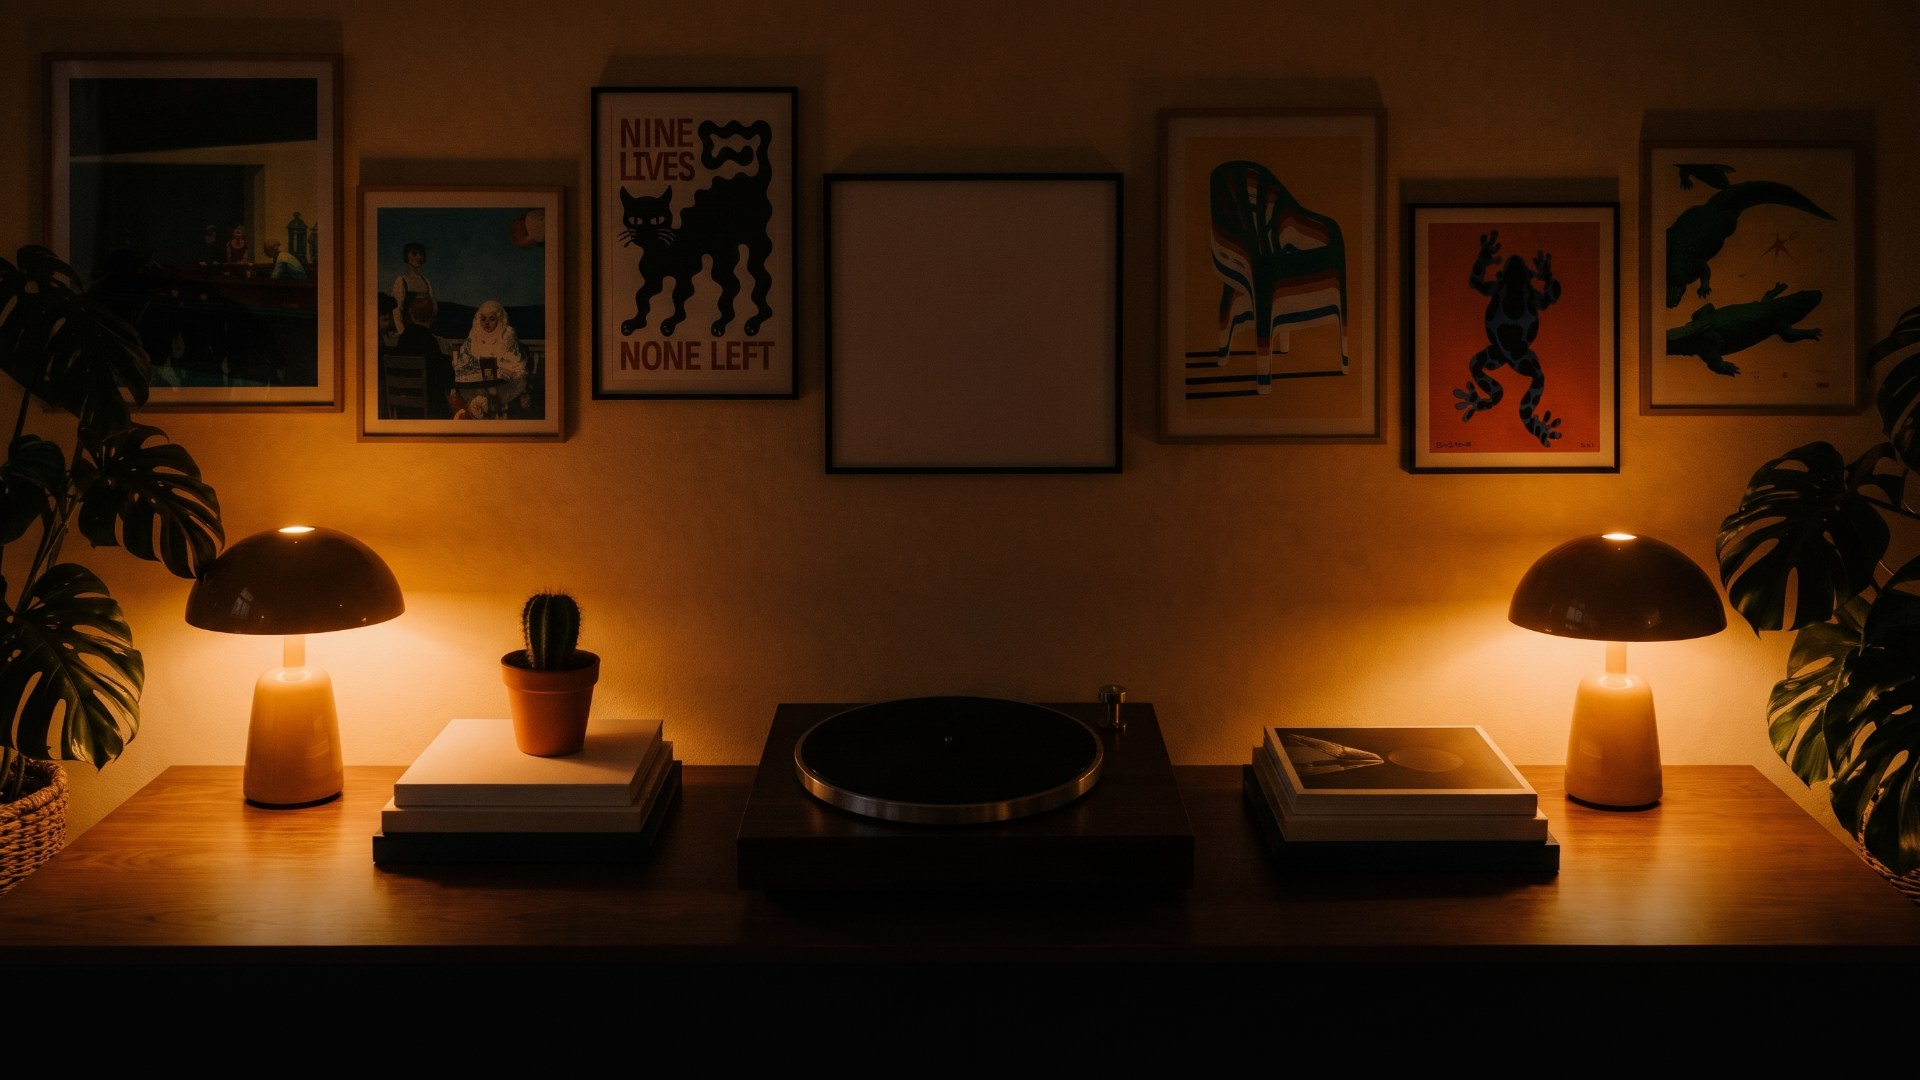
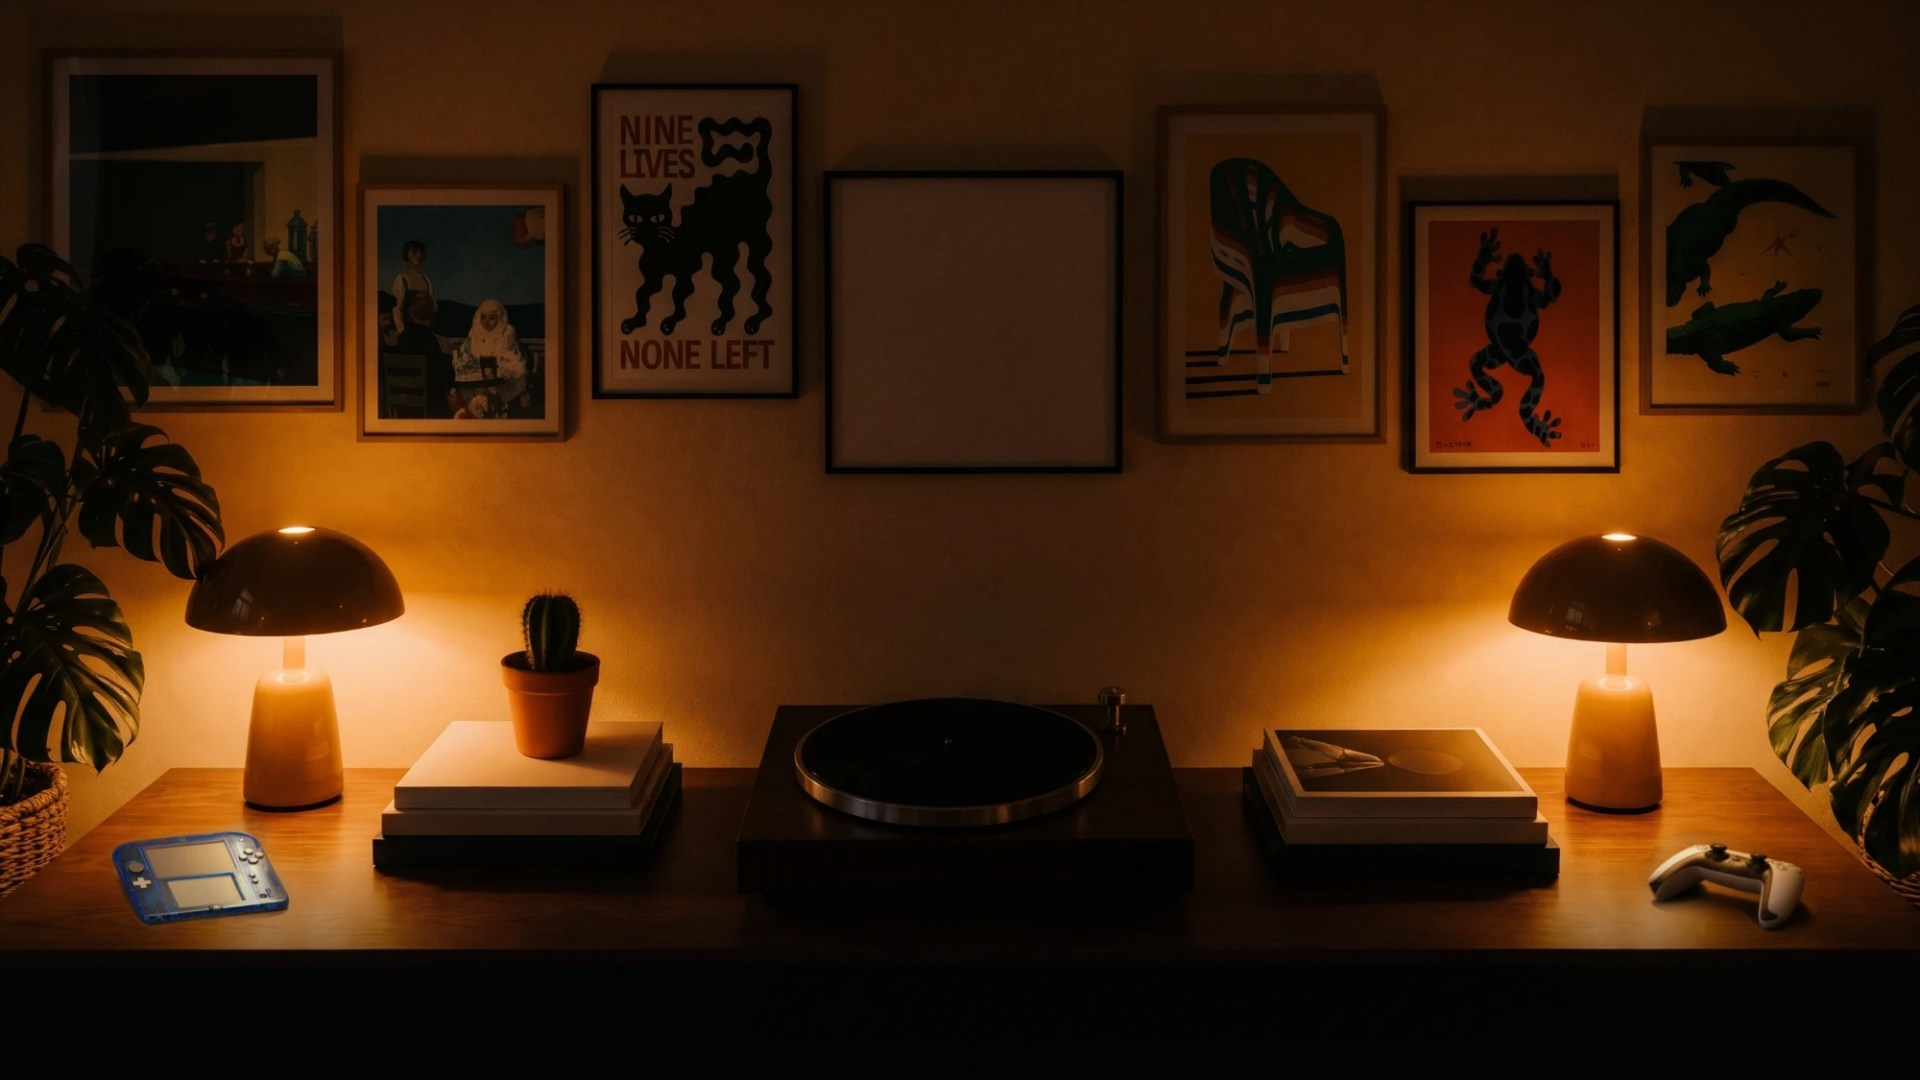
Add files via upload

diff --git a/index.html b/index.html
@@ -488,15 +488,15 @@ html{text-rendering:geometricPrecision;-webkit-font-smoothing:antialiased}
 #time,#sTime{font-weight:300}
 #line,#date,#hint,#sDate,#sArtist,#mid #mArtist,#wText,#navHint{font-weight:400}
 .nothing #sDate,.nothing #sArtist,.nothing #sTimes,.nothing #pills .pill,.nothing #railCap,.nLab,.nDay span,#eLab span{font-weight:400}
-#sPhoto{width:860px;height:860px;top:0}
+#sPhoto{left:535px;right:0;width:auto;height:1080px;top:0}
 /* Compressed dark photos break into steps when enlarged: a touch of softness and a stronger still grain hide them,
    and the photo stays still on the TV because a slow zoom makes the steps crawl. */
 .sImg{filter:blur(1.3px)}
 #sPhotoGrain{position:absolute;inset:0;background-image:var(--grainPhoto);background-size:128px 128px;z-index:1}
 #sPhoto::after{z-index:2}
-.sImg,#sPhotoGrain{left:4px;top:4px;right:4px;bottom:4px;inset:4px;width:calc(100% - 8px);height:calc(100% - 8px)}   /* nothing reaches the box edge, where the halo could leave a thin line */
+.sImg,#sPhotoGrain{left:4px;top:0;right:0;bottom:0;width:calc(100% - 4px);height:100%}   /* the left edge stays under the black of the fade, so it can leave no thin line */   /* nothing reaches the box edge, where the halo could leave a thin line */
 /* Round halo: the photo melts into black on every side. Many close stops keep the dark ring from breaking into steps. */
-.sMusic #sPhoto::after{background:radial-gradient(circle 430px at 50% 46%,transparent 36%,rgba(0,0,0,.05) 44%,rgba(0,0,0,.16) 52%,rgba(0,0,0,.32) 60%,rgba(0,0,0,.5) 68%,rgba(0,0,0,.68) 76%,rgba(0,0,0,.83) 84%,rgba(0,0,0,.94) 92%,#000 100%)}
+.sMusic #sPhoto::after{background:linear-gradient(90deg,#000 0,rgba(0,0,0,.86) 7%,rgba(0,0,0,.55) 15%,rgba(0,0,0,.24) 24%,rgba(0,0,0,.06) 33%,transparent 42%),linear-gradient(180deg,rgba(0,0,0,.2) 0,transparent 16%)}
 #sPhoto{isolation:isolate}   /* keeps the photo's layers below the player */
 .lite #sPhoto{animation:none;will-change:auto}
 /* Screensaver with music: clock on the left, the artist on the right, the player across the whole screen. */
@@ -578,7 +578,7 @@ html{text-rendering:geometricPrecision;-webkit-font-smoothing:antialiased}
 #ttJoint{position:absolute;left:1112px;top:691px;overflow:visible}
 /* The cover is a print in the painted frame: mat around it, the room's warm light on it, glass in front. */
 #ttSleeve{position:absolute;left:832px;top:181px;width:284px;height:286px;overflow:hidden}
-#ttCover{position:absolute;left:30px;top:30px;width:224px;height:226px;object-fit:cover;display:block;filter:saturate(.86) contrast(.94) brightness(.9);box-shadow:0 0 0 1px rgba(70,44,20,.6),0 1px 7px 1px rgba(58,34,14,.42);transition:opacity .4s ease}
+#ttCover{position:absolute;left:30px;top:30px;width:224px;height:226px;display:block;box-shadow:0 0 0 1px rgba(70,44,20,.6),0 1px 7px 1px rgba(58,34,14,.42);transition:opacity .4s ease}
 #ttSleeve::before{content:"";position:absolute;left:30px;top:30px;width:224px;height:226px;z-index:1;mix-blend-mode:multiply;background:linear-gradient(180deg,#e7c79c,#f7dcb4 70%,#ffe6bf)}
 #ttSleeve::after{content:"";position:absolute;inset:0;z-index:2;box-shadow:inset 0 10px 13px -4px rgba(40,22,8,.56),inset 6px 0 9px -4px rgba(40,22,8,.32),inset -6px 0 9px -4px rgba(40,22,8,.22),inset 0 -5px 8px -4px rgba(40,22,8,.2);background:linear-gradient(118deg,rgba(255,244,224,.14) 0,rgba(255,244,224,.05) 20%,transparent 21%,transparent 56%,rgba(255,244,224,.07) 57%,rgba(255,244,224,.02) 72%,transparent 73%)}
 /* The song on the wall: warm ink between the frame and the turntable, the next line fainter below it. */
@@ -653,6 +653,10 @@ html{text-rendering:geometricPrecision;-webkit-font-smoothing:antialiased}
 .ttM svg{width:17px;height:17px;fill:currentColor;display:block}
 .ttM.on{background:rgba(255,255,255,.2)}
 .ttM:focus,.ttM:hover{background:rgba(255,255,255,.9);color:#1a1a1a}
+#sSeek{position:absolute;left:0;right:0;top:-16px;height:37px;background:none;box-shadow:none;z-index:2}
+#sLine::after{transition:left 1s linear,transform .15s ease}
+#sLine:focus-within::after{transform:scale(1.7)}
+#sLine:focus-within{box-shadow:0 0 0 2px rgba(255,255,255,.28)}
 #ttGrainZone{position:absolute;inset:0;overflow:hidden}
 #ttGrain{position:absolute;left:-120px;top:-120px;width:1080px;height:660px;transform-origin:0 0;background-image:var(--grainRoom);background-size:88px 88px;will-change:transform,opacity;animation:filmGrain .8s steps(1) infinite,grainIn 2.8s ease-in}
 @keyframes grainIn{from{opacity:0}to{opacity:1}}
@@ -821,7 +825,7 @@ html:not(.nothing).lite #weather,html:not(.nothing).lite #mid #nMusic:not(.empty
 <path d="M-9.500 -7V0.500A9.500 3.300 0 0 0 9.500 .5V-7Z" fill="url(#tBear)"/>
 <ellipse cx="0" cy="-7" rx="9.500" ry="3.300" fill="#1c1b19" stroke="#55514a" stroke-width=".7"/>
 <ellipse cx="0" cy="-7" rx="3.400" ry="1.200" fill="#c9a968"/></svg>
-      <div id="ttSleeve"><img id="ttCover" alt=""></div>
+      <div id="ttSleeve"><canvas id="ttCover" width="224" height="226"></canvas></div>
       <button class="albHit" id="ttAlbBtn" data-f aria-label="Abrir álbum"></button>
       <div id="ttLyr"><div id="ttLine"></div><div id="ttNext"></div></div>
       <div id="ttGrainZone"><i id="ttGrain"></i></div>
@@ -836,7 +840,7 @@ html:not(.nothing).lite #weather,html:not(.nothing).lite #mid #nMusic:not(.empty
       <div>
         <div id="sName"></div>
         <div id="sArtist"></div>
-        <div id="sLine"><div id="sProg"></div></div>
+        <div id="sLine"><div id="sProg"></div><button id="sSeek" data-f aria-label="Avanzar o retroceder en la canción"></button></div>
         <div id="sTimes"><span id="sPos"></span><span id="sDur"></span></div>
         <div id="sBtns">
           <button class="sB" id="sLyrBtn" data-f aria-label="Letra"><svg viewBox="0 0 24 24"><path d="M4 5h16v2.400H4zm0 5.800h16v2.400H4zm0 5.800h10v2.400H4z"/></svg></button>
@@ -1473,7 +1477,32 @@ function startMusic(){
   };
   const s=document.createElement('script');s.src='https://sdk.scdn.co/spotify-player.js';document.head.append(s);
 }
-$('mPrev').onclick=$('sPrev').onclick=()=>player&&player.previousTrack();
+/* Back: past 3 seconds, or with nothing before it, the song starts over; otherwise it goes to the previous one. */
+/* Moving through the song: the bar answers at once, the jump reaches Spotify when the presses stop. */
+let seekTo=null,seekT=0;
+function seekSet(t){
+  t=Math.max(0,Math.min(mDur-1,t));
+  seekTo=t;mPos=t;mBase=t;mAt=performance.now();lyrAt=-2;musicBar();
+  clearTimeout(seekT);
+  seekT=setTimeout(()=>{if(player)player.seek(Math.round(seekTo*1000)).catch(()=>{});seekTo=null},260);
+}
+const seekBy=d=>seekSet((seekTo==null?mPos:seekTo)+d);
+$('sSeek').onclick=e=>{
+  if(!e.detail)return;   // Enter on the remote stays put; only a real pointer click picks a spot
+  const r=$('sLine').getBoundingClientRect();
+  seekSet(mDur*(e.clientX-r.left)/r.width);
+};
+async function spPrev(){
+  if(!player)return;
+  const st=await player.getCurrentState();
+  if(!st)return;
+  if(st.position>3000)return player.seek(0);
+  const none=(st.disallows&&st.disallows.skipping_prev)||!(st.track_window.previous_tracks||[]).length;
+  if(!none)return player.previousTrack().catch(()=>player.seek(0));
+  const r=await spApi('/me/player/previous?device_id='+spDevice,'POST').catch(()=>null);
+  if(!r||!r.ok)player.seek(0);
+}
+$('mPrev').onclick=$('sPrev').onclick=spPrev;
 $('mNext').onclick=$('sNext').onclick=()=>player&&player.nextTrack();
 $('mPlay').onclick=$('sPlay').onclick=()=>player&&player.togglePlay();
 let musBack=null;
@@ -1599,7 +1628,9 @@ async function spSend(body,name){
 function spPlay(i){
   const v=view,t=v.tracks[i];
   if(v.context)return spSend({context_uri:v.context,offset:{position:i}},t.name);
-  spSend({uris:v.tracks.slice(i,i+100).map(x=>x.uri)},t.name);
+  /* the songs before it go along too, so the back button has somewhere to go */
+  const from=Math.max(0,i-25);
+  spSend({uris:v.tracks.slice(from,from+100).map(x=>x.uri),offset:{position:i-from}},t.name);
 }
 $('spPlay').onclick=()=>{
   if(!view||view.grid)return;
@@ -1702,25 +1733,34 @@ function layerEl(){
   return !$('sheet').hidden?$('sheet'):!$('mus').hidden?$('mus'):null;
 }
 function items(){return [...(layerEl()||$('ui')).querySelectorAll('[data-f]')].filter(b=>b.offsetParent)}
+/* Remote: a target counts if it reaches past the current edge in that direction, so a tall cover beside the
+   buttons is reachable. The nearest row or column wins first; alignment only decides inside it. */
+let navLast=null;
 function move(dx,dy){
   const list=items(),a=document.activeElement;
   if(!list.includes(a))return focus(list[0]);
-  const r=a.getBoundingClientRect(),ax=r.left+r.width/2,ay=r.top+r.height/2;
+  if(navLast&&navLast.to===a&&navLast.dx===-dx&&navLast.dy===-dy&&list.includes(navLast.from)){
+    const b=navLast.from;navLast=null;tick();return focus(b);
+  }
+  const r=a.getBoundingClientRect(),cx=r.left+r.width/2,cy=r.top+r.height/2,M=8;
   let best=null,bs=1e12;
   list.forEach(b=>{
     if(b===a)return;
-    const q=b.getBoundingClientRect(),x=q.left+q.width/2-ax,y=q.top+q.height/2-ay;
-    const along=dx?x*dx:y*dy,across=dx?Math.abs(y):Math.abs(x);
-    if(along<=1)return;
-    const s=along+across*2.2;
+    const q=b.getBoundingClientRect();
+    const past=dy<0?q.top<r.top-M:dy>0?q.bottom>r.bottom+M:dx<0?q.left<r.left-M:q.right>r.right+M;
+    if(!past)return;
+    const gapY=Math.max(0,r.top-q.bottom,q.top-r.bottom),gapX=Math.max(0,r.left-q.right,q.left-r.right);
+    const toX=Math.abs(q.left+q.width/2-cx),toY=Math.abs(q.top+q.height/2-cy);
+    const s=dy?gapY*4+gapX+toX*.1:gapX*2+gapY*4+toY*.1;
     if(s<bs){bs=s;best=b}
   });
-  if(best){tick();focus(best)}
+  if(best){navLast={from:a,to:best,dx,dy};tick();focus(best)}
 }
 document.addEventListener('keydown',e=>{
   const k={ArrowLeft:[-1,0],ArrowRight:[1,0],ArrowUp:[0,-1],ArrowDown:[0,1]}[e.key];
   if(k&&e.key==='ArrowDown'&&document.activeElement===$('gzArrow')){e.preventDefault();$('gzArrow').click();return}
   if(k&&e.key==='ArrowUp'&&document.activeElement===$('svArrow')){e.preventDefault();enterSaver();return}
+  if(k&&k[0]&&document.activeElement===$('sSeek')){e.preventDefault();seekBy(k[0]*10);return}
   if(k){e.preventDefault();move(k[0],k[1]);return}
   const open=layerEl();
   if((e.key==='Escape'||e.keyCode===8)&&open){e.preventDefault();open.id==='sheet'?closeSheet():spBack()}
@@ -1737,9 +1777,15 @@ function wake(e){
   }
   if(idle&&e){
     /* with music the screensaver has its own controls: only Back or Down leave it */
+    if(mTrack&&e.type==='keydown'&&e.key==='ArrowDown'&&document.activeElement.closest&&document.activeElement.closest('#sBtns')){
+      e.preventDefault();e.stopImmediatePropagation();tick();focus($('sSeek'));return;
+    }
+    if(mTrack&&e.type==='keydown'&&e.key==='ArrowDown'&&document.activeElement.closest&&document.activeElement.closest('#ttMode,.albHit')){
+      e.preventDefault();e.stopImmediatePropagation();move(0,1);return;
+    }
     const backKey=e.key==='Escape'||e.key==='ArrowDown'||e.keyCode===8||e.keyCode===461;
     if(mTrack&&e.type==='keydown'&&!backKey)return;
-    if(e.type==='click'&&e.target.closest('#sBtns,.albHit,#ttMode'))return;
+    if(e.type==='click'&&e.target.closest('#sBtns,.albHit,#ttMode,#sSeek'))return;
     e.preventDefault();e.stopImmediatePropagation();
     const st=$('stage');
     if(st.classList.contains('leaving'))return;
@@ -1814,19 +1860,34 @@ function ttPaint(){
   g.drawImage(im,(im.naturalWidth-m)/2,(im.naturalHeight-m)/2,m,m,0,0,110,110);
 }
 /* The cover hangs in the wall frame like one more picture and fades to the next song's. */
+let ttShown='';
+function ttDraw(){
+  const im=$('sCover'),w=im.naturalWidth,h=im.naturalHeight;
+  if(!w||!h)return;
+  const m=Math.min(w,h);
+  let src=im,sx=(w-m)/2,sy=(h-m)/2,size=m;
+  while(size>448){
+    const c=document.createElement('canvas'),n=Math.ceil(size/2);c.width=c.height=n;
+    const g=c.getContext('2d');g.imageSmoothingQuality='high';g.drawImage(src,sx,sy,size,size,0,0,n,n);
+    src=c;sx=sy=0;size=n;
+  }
+  const g=$('ttCover').getContext('2d');
+  g.imageSmoothingQuality='high';g.filter='saturate(.86) contrast(.94) brightness(.9)';
+  g.drawImage(src,sx,sy,size,size,0,0,224,226);
+}
 function ttFrame(u){
-  const c=$('ttCover');
-  if(c.src===u)return;
-  if(!c.getAttribute('src')){c.src=u;return}
+  if(ttShown===u)return;
+  const first=!ttShown,c=$('ttCover');ttShown=u;
+  if(first)return ttDraw();
   c.style.opacity=0;
-  setTimeout(()=>{c.onload=()=>{c.style.opacity=1};c.src=u},400);
+  setTimeout(()=>{ttDraw();c.style.opacity=1},400);
 }
 /* Turntable. The record leaves the sleeve, rises and lands on the platter; the arm then follows the song across it. */
 let ttNight=store.get('sala-night')===1;
 function ttLight(n){
   ttNight=n;store.set('sala-night',n?1:0);
   const im=$('ttRoomN');
-  if(!im.getAttribute('src'))im.src='room-night.jpg?v=2';   // ready before it is asked for, so the fade starts at once
+  if(!im.getAttribute('src'))im.src='room-night.jpg?v=3';   // ready before it is asked for, so the fade starts at once
   $('ttSun').classList.toggle('on',!n);$('ttMoon').classList.toggle('on',n);
   if(!n)return $('saver').classList.remove('ttNight');
   const show=()=>{if(ttNight)$('saver').classList.add('ttNight')};
@@ -1882,7 +1943,7 @@ function ttToggle(){
   if(ttBusy)return;
   if(ttOn){ttOn=false;sv.classList.remove('tt','ttSeat');ttArm();lyrApply();return}
   const r=$('sSlide').getBoundingClientRect(),b=sv.getBoundingClientRect(),k=$('stage').offsetWidth?b.width/1920:1;
-  ttBusy=true;ttOn=true;ttWords=true;$('ttRoom').src='room.jpg?v=9';ttLight(ttNight);sv.classList.add('tt');lyrApply();
+  ttBusy=true;ttOn=true;ttWords=true;$('ttRoom').src='room.jpg?v=10';ttLight(ttNight);sv.classList.add('tt');lyrApply();
   const q=$('ttTop').getBoundingClientRect();
   const fly=document.createElement('div'),size=300;
   fly.id='ttFly';fly.className='ttRec';fly.style.width=fly.style.height=size+'px';
@@ -1957,6 +2018,8 @@ setInterval(()=>{
 },20000);
 /* Lyrics come from LRCLIB, a free open archive; Spotify keeps its own closed. Most have a time per line:
    the rest are spread across the song, so those follow it only roughly. */
+const LYR_LEAD=.6;
+let LYR_BRIDGE='';   // address of the Cloudflare bridge to timed lyrics
 let lyrOn=store.get('sala-lyrics')===1,lyrFor='',lyrLines=[],lyrTimes=[],lyrAt=-2,mBase=0,mAt=0,mFirst='';
 function lyrShow(lines,times,cls){
   lyrLines=lines;lyrTimes=times||[];lyrAt=-2;
@@ -1987,19 +2050,27 @@ function lyrLoad(quiet){
     if(!rows.length)throw 0;
     if(lyrFor===key)spread(rows);
   });
+  const lrc=t=>t.split(/\r?\n/).map(l=>{const m=l.match(/^\[(\d+):(\d+(?:\.\d+)?)\](.*)$/);return m&&[+m[1]*60+ +m[2],m[3].trim()]}).filter(Boolean);
+  /* Second source, with real timing. A file far longer than this song is another version, so it is skipped. */
+  const bridge=()=>LYR_BRIDGE?fetch(LYR_BRIDGE+'?title='+encodeURIComponent(clean)+'&artist='+encodeURIComponent(mFirst)).then(r=>{if(!r.ok)throw 0;return r.text()}).then(t=>{
+    const rows=lrc(t);
+    if(rows.length<5||rows[rows.length-1][0]>mDur+15)throw 0;
+    if(lyrFor===key)lyrShow(rows.map(q=>q[1]),rows.map(q=>q[0]));
+  }):Promise.reject(0);
+  const others=()=>bridge().catch(backup);
   fetch('https://lrclib.net/api/search?track_name='+encodeURIComponent(clean)+'&artist_name='+encodeURIComponent(mFirst)).then(r=>{if(!r.ok)throw 0;return r.json()}).then(list=>{
     if(lyrFor!==key)return;
     const x=lyrPick(list,mDur);
-    if(!x)return backup().catch(()=>{if(lyrFor===key)lyrShow(['Esta canción no tiene letra disponible'],null,'msg now')});
+    if(!x)return others().catch(()=>{if(lyrFor===key)lyrShow(['Esta canción no tiene letra disponible'],null,'msg now')});
     if(x.syncedLyrics){
-      const rows=x.syncedLyrics.split('\n').map(l=>{const m=l.match(/^\[(\d+):(\d+(?:\.\d+)?)\](.*)$/);return m&&[+m[1]*60+ +m[2],m[3].trim()]}).filter(Boolean);
+      const rows=lrc(x.syncedLyrics);
       lyrShow(rows.map(q=>q[1]),rows.map(q=>q[0]));
     }else spread(x.plainLyrics.split('\n').map(l=>l.trim()).filter(Boolean));
   }).catch(()=>{
     if(lyrFor!==key)return;
     /* while LRCLIB is down, keep the backup on screen and look now and then for the timed version */
     if(quiet&&lyrTimes.length)return again(120000);
-    backup().then(()=>again(120000)).catch(()=>{
+    others().then(()=>again(120000)).catch(()=>{
       if(lyrFor!==key)return;
       lyrShow(['No se pudo buscar la letra'],null,'msg now');
       again(30000);
@@ -2021,7 +2092,7 @@ function lyrApply(){
 setInterval(()=>{
   if((!lyrOn&&!ttOn)||!lyrTimes.length||!$('stage').classList.contains('idle'))return;
   const pos=mPlaying?mBase+(performance.now()-mAt)/1000:mBase;
-  let n=-1;while(n+1<lyrTimes.length&&lyrTimes[n+1]<=pos+.15)n++;
+  let n=-1;while(n+1<lyrTimes.length&&lyrTimes[n+1]<=pos+LYR_LEAD)n++;
   if(n===lyrAt)return;
   lyrAt=n;
   if(ttOn)ttSay(n);
